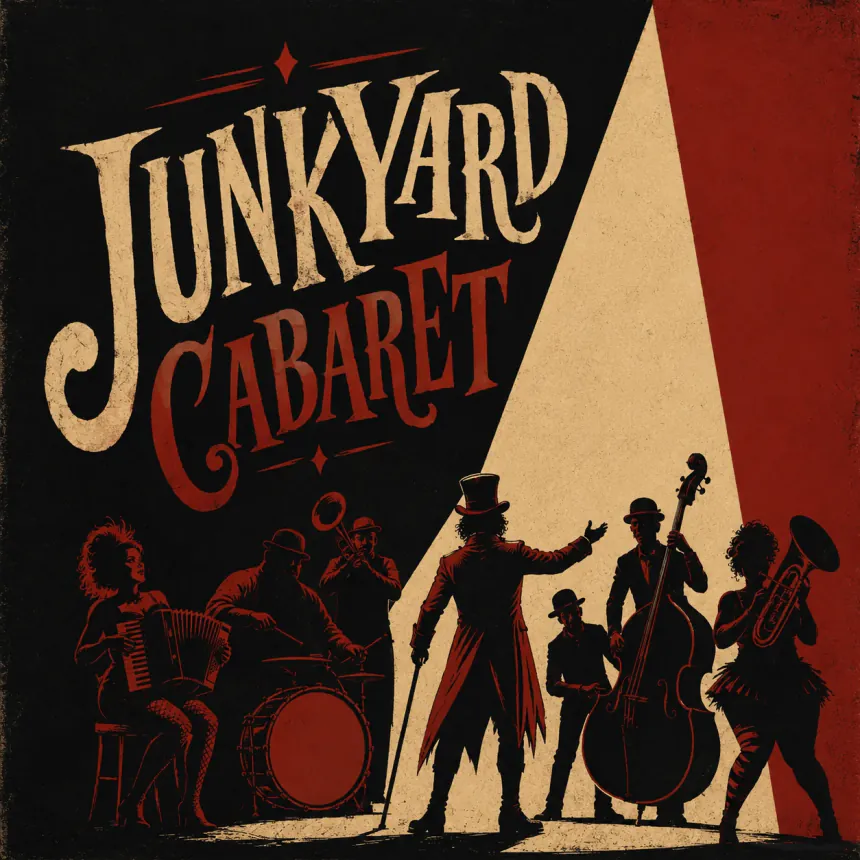
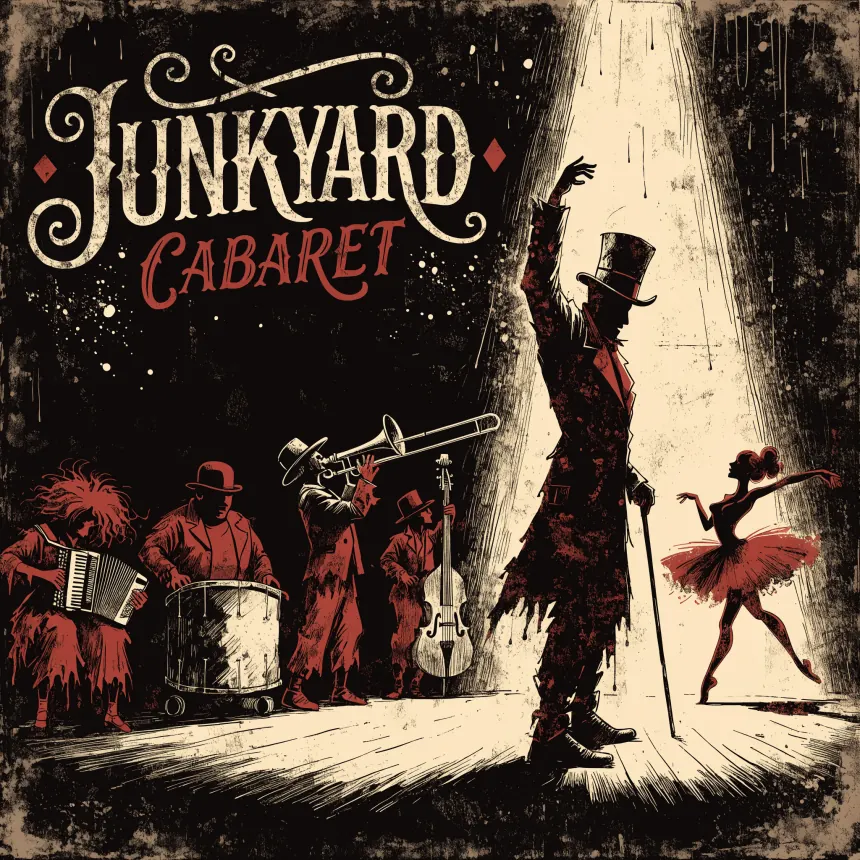
JC: new card art and album cover, full frame
The Recently card art no longer sits inset. The old title-card baked a
~10px cream paper margin into its own 700px canvas, so the poster read as
a framed object while Toast, Spectator and Before Times all ran their art
to the frame. The replacement fills it edge to edge.

Both new pieces ship at their native aspect, uncropped: the card at 3:2
(700x467), the cover square. The card is the tallest image in the row now,
but the four cards land within 20px of each other once the captions are
counted, so the row still reads level.

The foil recipe keyed the old cover's sandy cream and returned 0% coverage
against the new near-white one -- no error, just an empty mask. Re-keyed
and regenerated. The dormant foil path stays valid.

diff --git a/index.html b/index.html
@@ -94,7 +94,7 @@
                 <div class="showcase-item showcase-item-jc" id="jcTile" data-col="1">
                     <svg class="showcase-signal" aria-hidden="true" focusable="false"><rect class="showcase-signal-blip" pathLength="100"></rect></svg>
                     <div class="showcase-media">
-                        <img src="audio/junkyard-cabaret/junkyard-cabaret-title-card.webp" alt="Junkyard Cabaret title art: a ragged band, a dancer and a top-hatted barker on a spotlit stage before a packed theater house" width="700" height="390" loading="lazy" decoding="async">
+                        <img src="audio/junkyard-cabaret/junkyard-cabaret-title-card.webp?v=202608132052" alt="Junkyard Cabaret title art: a ragged band, a dancer and a top-hatted barker in silhouette on a spotlit stage" width="700" height="467" loading="lazy" decoding="async">
                     </div>
                     <div class="showcase-caption">
                         <div class="showcase-caption-topline">
@@ -475,7 +475,7 @@
                         <div class="jewel-shell">
                             <div class="jewel-hinge" aria-hidden="true"></div>
                             <div class="jewel-insert">
-                                <img src="audio/junkyard-cabaret/junkyard-cabaret-cover-card.webp" alt="Junkyard Cabaret album cover" width="860" height="860" loading="lazy" decoding="async">
+                                <img src="audio/junkyard-cabaret/junkyard-cabaret-cover-card.webp?v=202608132052" alt="Junkyard Cabaret album cover" width="860" height="860" loading="lazy" decoding="async">
                             </div>
                             <div class="jewel-glare" aria-hidden="true"></div>
                         </div>
@@ -683,7 +683,7 @@
             <button class="lightbox-close" id="jcClose" aria-label="Close Junkyard Cabaret player">&times;</button>
             <div class="mixtape-left-section">
                 <div class="mixtape-cover-container">
-                    <img src="audio/junkyard-cabaret/junkyard-cabaret-cover-card.webp" alt="Junkyard Cabaret Cover" class="mixtape-cover" id="jcCoverImg" width="860" height="860" loading="lazy" decoding="async">
+                    <img src="audio/junkyard-cabaret/junkyard-cabaret-cover-card.webp?v=202608132052" alt="Junkyard Cabaret Cover" class="mixtape-cover" id="jcCoverImg" width="860" height="860" loading="lazy" decoding="async">
                 </div>
                 <div class="mixtape-side-toggle-container">
                     <h2 class="mixtape-title mixtape-mobile-title">Junkyard Cabaret <span class="mixtape-subtitle">Album Under Development</span></h2>

diff --git a/main.js b/main.js
@@ -4511,7 +4511,7 @@ function initJCLightbox() {
         { title: 'House Lights', file: 'audio/junkyard-cabaret/house-lights.mp3', cover: 'audio/junkyard-cabaret/house-lights-title.webp?v=202608081643', article: 'https://claude.ai/share/55400033-7fb7-4d4f-bb85-ddadd5fdc57f' },
         { title: 'Hip Height', file: 'audio/junkyard-cabaret/hip-height.mp3', cover: 'audio/junkyard-cabaret/hip-height-title.webp?v=202606071656', article: 'https://charleswilke.substack.com/p/know-thyself' },
         { title: 'How Dare It Rise', file: 'audio/junkyard-cabaret/how-dare-it-rise.mp3', cover: 'audio/junkyard-cabaret/how-dare-it-rise.webp?v=202606071656', article: 'https://charleswilke.substack.com/p/your-right' },
-        { title: 'Take Your Time', act: 'Intermission', actInline: true, file: 'audio/junkyard-cabaret/take-your-time.mp3?v=202606261700', cover: 'audio/junkyard-cabaret/junkyard-cabaret-cover-card.webp', noShare: true, noNumber: true },
+        { title: 'Take Your Time', act: 'Intermission', actInline: true, file: 'audio/junkyard-cabaret/take-your-time.mp3?v=202606261700', cover: 'audio/junkyard-cabaret/junkyard-cabaret-cover-card.webp?v=202608132052', noShare: true, noNumber: true },
         { title: 'Everything Must Go', act: 'Act II', file: 'audio/junkyard-cabaret/everything-must-go.mp3?v=202606141010', cover: 'audio/junkyard-cabaret/everything-must-go-title.webp?v=202606071656', article: 'https://charleswilke.substack.com/p/singular-intention' },
         { title: 'What You Get', file: 'audio/junkyard-cabaret/what-you-get.mp3?v=202608081613', cover: 'audio/junkyard-cabaret/what-you-get-title.webp', article: 'https://charleswilke.substack.com/p/the-stuff-of-fairy-tales' },
         { title: "Morning's Flood", file: 'audio/junkyard-cabaret/mornings-flood.mp3?v=202607051245', cover: 'audio/junkyard-cabaret/mornings-flood-title.webp', article: 'https://charleswilke.substack.com/p/cherish-your-confident-ire' },

diff --git a/junkyard-cabaret.html b/junkyard-cabaret.html
@@ -14,7 +14,7 @@
     <meta property="og:url" content="https://charleswilke.com/junkyard-cabaret">
     <meta property="og:title" content="Junkyard Cabaret">
     <meta property="og:description" content="Songs scavenged from the wreckage. A cabaret of salvaged parts.">
-    <meta property="og:image" content="https://charleswilke.com/audio/junkyard-cabaret/junkyard-cabaret-cover.webp?v=202605120946">
+    <meta property="og:image" content="https://charleswilke.com/audio/junkyard-cabaret/junkyard-cabaret-cover.webp?v=202608132052">
     <meta property="og:image:width" content="1200">
     <meta property="og:image:height" content="1200">
 
@@ -23,7 +23,7 @@
     <meta name="twitter:url" content="https://charleswilke.com/junkyard-cabaret">
     <meta name="twitter:title" content="Junkyard Cabaret">
     <meta name="twitter:description" content="Songs scavenged from the wreckage. A cabaret of salvaged parts.">
-    <meta name="twitter:image" content="https://charleswilke.com/audio/junkyard-cabaret/junkyard-cabaret-cover.webp?v=202605120946">
+    <meta name="twitter:image" content="https://charleswilke.com/audio/junkyard-cabaret/junkyard-cabaret-cover.webp?v=202608132052">
 
     <link rel="icon" type="image/x-icon" href="favicon.ico?v=202607032147">
 

diff --git a/tools/make-card-foil-masks.js b/tools/make-card-foil-masks.js
@@ -53,13 +53,18 @@ const RECIPES = {
   },
   /* Spotlight wedge + the JUNKYARD lettering. tIn is wide because the poster
      carries a printed grain over the flat sand. The blob floor is low so
-     individual letters survive; the wedge alone is ~11% of the image and each
-     letter only a fraction of a percent. */
+     individual letters survive; the wedge carries most of the ~18% coverage and
+     each letter only a fraction of a percent.
+
+     The key tracks the artwork, not a constant: the 2026-08 cover replaced a
+     sandy [215,175,120] cream with a near-white [248,226,192] one, and the old
+     key silently returned 0% rather than erroring. If the cover is replaced
+     again, re-sample the wedge before trusting the output. */
   jc: {
     src: 'audio/junkyard-cabaret/junkyard-cabaret-cover-card.webp',
     out: 'jc-foil-mask.webp',
     mode: 'key',
-    key: [215, 175, 120], tIn: 30, tOut: 80, minBlob: 0.0002, dilate: 1,
+    key: [248, 226, 192], tIn: 40, tOut: 100, minBlob: 0.0002, dilate: 1,
     resize: [430, 430],
   },
   /* The paper ground. Luminance-led with a wide saturation gate: the paper
